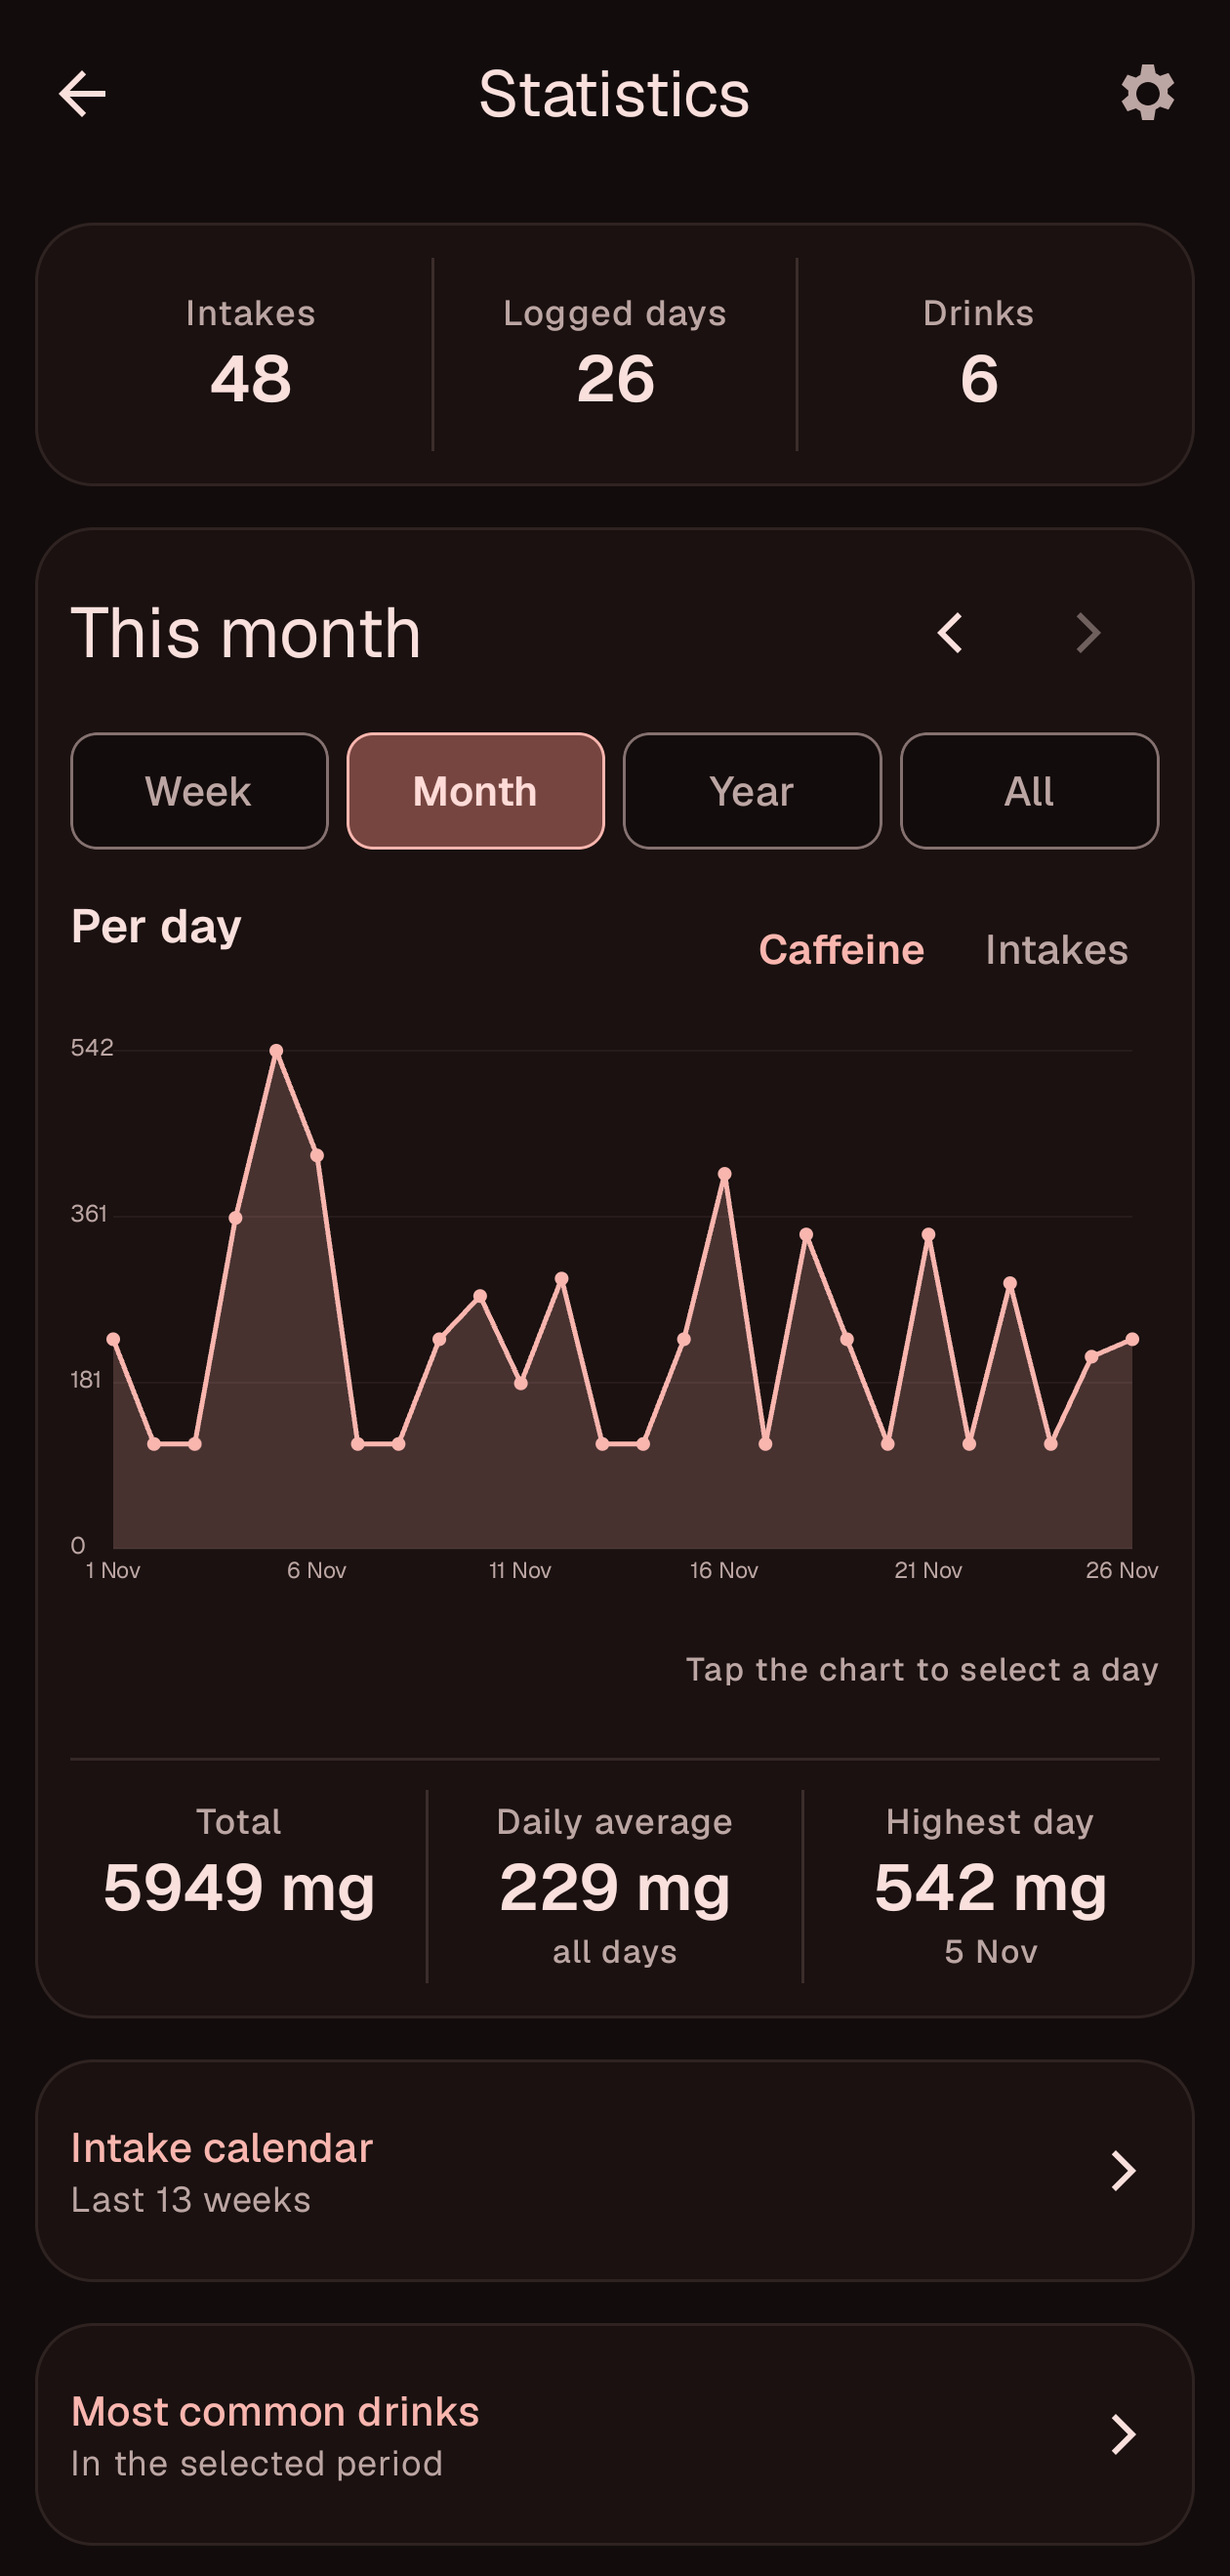
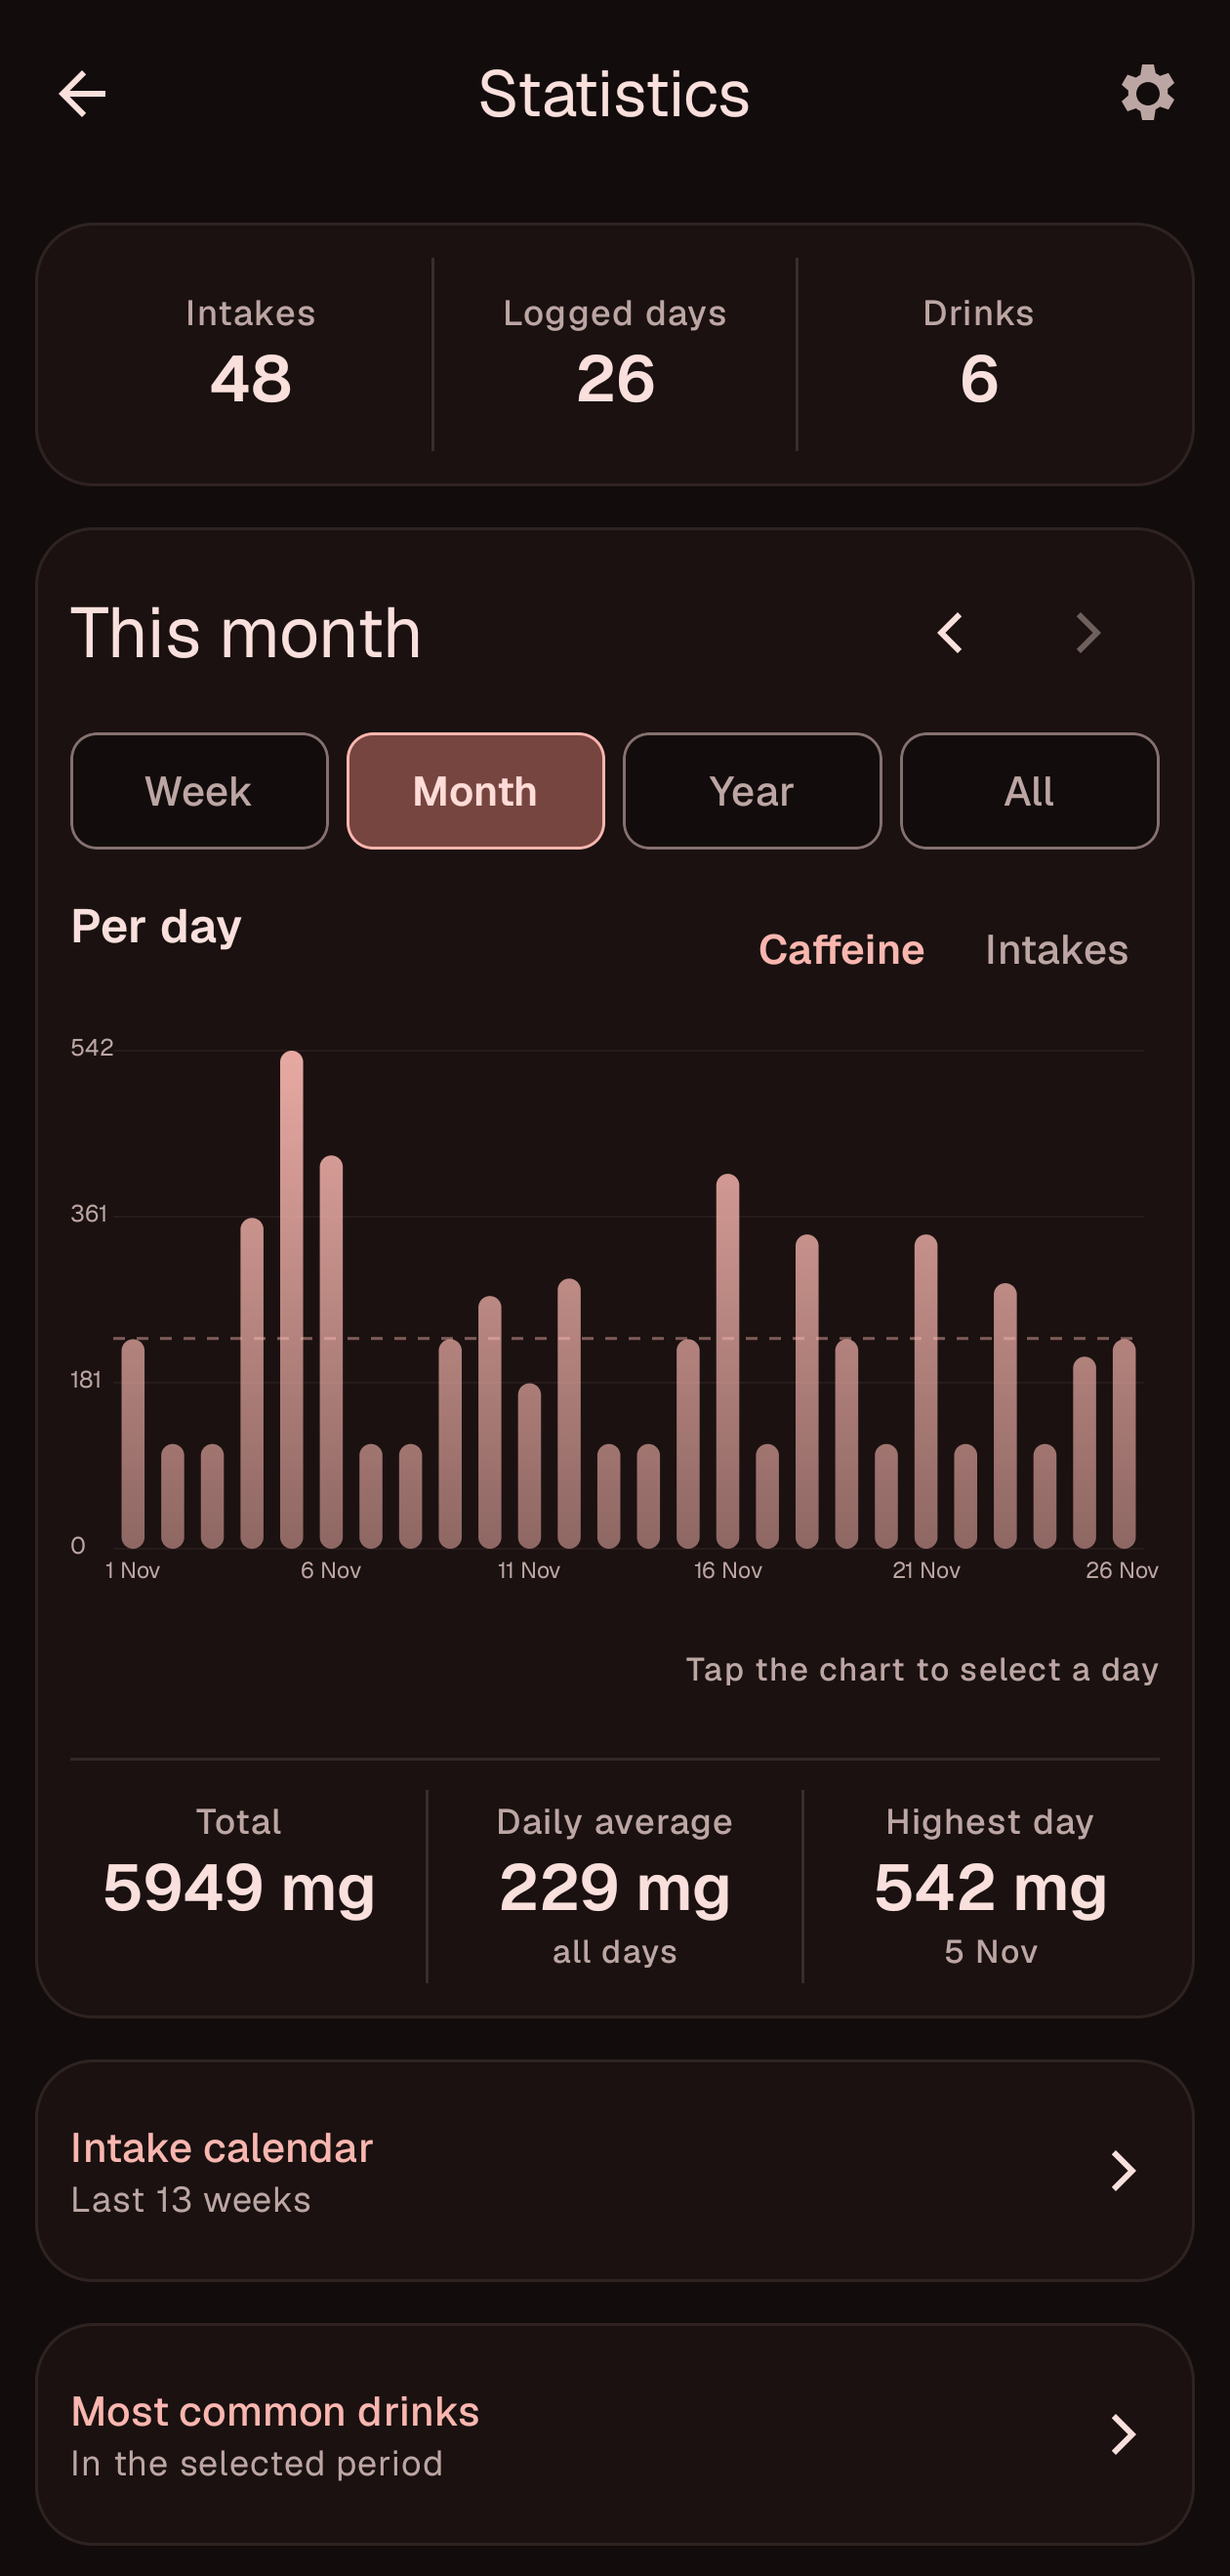
Switch Statistics chart to rounded pill bars with average line (build 48)

Changed region(s): [[0.0929, 0.4041, 0.9286, 0.6217]]

diff --git a/app/src/main/java/com/roinur/caffeinetracker/feature/statistics/StatisticsComponents.kt b/app/src/main/java/com/roinur/caffeinetracker/feature/statistics/StatisticsComponents.kt
@@ -26,15 +26,18 @@ import androidx.compose.runtime.remember
 import androidx.compose.runtime.setValue
 import androidx.compose.ui.Alignment
 import androidx.compose.ui.Modifier
-import androidx.compose.ui.graphics.Path
-import androidx.compose.ui.graphics.StrokeCap
+import androidx.compose.ui.geometry.CornerRadius
+import androidx.compose.ui.geometry.Offset
+import androidx.compose.ui.geometry.Size
+import androidx.compose.ui.graphics.Brush
+import androidx.compose.ui.graphics.PathEffect
 import androidx.compose.ui.graphics.nativeCanvas
 import androidx.compose.ui.graphics.toArgb
-import androidx.compose.ui.geometry.Offset
 import androidx.compose.ui.input.pointer.pointerInput
 import androidx.compose.ui.text.font.FontWeight
 import androidx.compose.ui.text.style.TextOverflow
 import androidx.compose.ui.unit.dp
+import androidx.compose.ui.unit.sp
 import com.roinur.caffeinetracker.core.ui.i18n.LocalAppLanguage
 import com.roinur.caffeinetracker.core.ui.i18n.LocalStrings
 import java.time.LocalDate
@@ -119,11 +122,16 @@ internal fun CaffeineLineChart(
     }
 
     fun selectPoint(x: Float, sizeWidth: Float) {
-        if(visiblePoints.isEmpty()) return
-        val width = (sizeWidth - 44f - 28f).coerceAtLeast(1f)
-        val step = if(visiblePoints.size <= 1) width else width / (visiblePoints.size - 1)
-        val index = ((x - 44f) / step).roundToInt().coerceIn(0,visiblePoints.lastIndex)
+        if (visiblePoints.isEmpty()) return
+        val left = 44f
+        val right = sizeWidth - 16f
+        val width = (right - left).coerceAtLeast(1f)
+        val slotWidth = width / visiblePoints.size.toFloat()
+        val index = ((x - left) / slotWidth).toInt().coerceIn(0, visiblePoints.lastIndex)
         onPointSelected(visiblePoints[index])
+    }
+    val avgValue = remember(visiblePoints) {
+        if (visiblePoints.size > 1) visiblePoints.sumOf { it.value } / visiblePoints.size else 0.0
     }
     Column(modifier = modifier, verticalArrangement = Arrangement.spacedBy(8.dp)) {
         Row(
@@ -155,13 +163,14 @@ internal fun CaffeineLineChart(
                     detectTapGestures { selectPoint(it.x, size.width.toFloat()) }
                 }
                 .pointerInput(visiblePoints, range, metric) {
-                    detectHorizontalDragGestures(onDragStart = { selectPoint(it.x,size.width.toFloat()) }) { change, _ ->
+                    detectHorizontalDragGestures(onDragStart = { selectPoint(it.x, size.width.toFloat()) }) { change, _ ->
+                        change.consume()
                         selectPoint(change.position.x, size.width.toFloat())
                     }
                 }
         ) {
             val left = 44f
-            val right = size.width - 28f
+            val right = size.width - 16f
             val top = 8f
             val bottom = size.height - 34f
             val width = (right - left).coerceAtLeast(1f)
@@ -172,46 +181,85 @@ internal fun CaffeineLineChart(
                 val label = ((maxValue * (3 - index)) / 3.0).roundToInt().toString()
                 drawContext.canvas.nativeCanvas.drawText(label, 0f, y + 5f, yLabelPaint)
             }
-            val step = if (visiblePoints.size <= 1) width else width / (visiblePoints.size - 1).toFloat()
-            val offsets = visiblePoints.mapIndexed { index, point ->
-                val x = left + step * index
-                val y = bottom - (point.value.toFloat() / maxValue.toFloat()) * height
-                Offset(x, y)
-            }
-            val fillPath = Path().apply {
-                offsets.firstOrNull()?.let { first ->
-                    moveTo(first.x, bottom)
-                    offsets.forEach { lineTo(it.x, it.y) }
-                    lineTo(offsets.last().x, bottom)
-                    close()
+
+            if (visiblePoints.isNotEmpty()) {
+                val slotWidth = width / visiblePoints.size.toFloat()
+                val maxBarW = 24.dp.toPx()
+                val minBarW = 3.dp.toPx()
+                val barWidth = (slotWidth * 0.58f).coerceIn(minBarW, maxBarW)
+                val minNonZeroH = 4.dp.toPx()
+                val zeroDotH = 3.dp.toPx()
+                val hasSelection = selectedPoint != null
+                val defaultBrush = Brush.verticalGradient(
+                    colors = listOf(primary.copy(alpha = 0.92f), primary.copy(alpha = 0.52f)),
+                    startY = top,
+                    endY = bottom
+                )
+                val dimmedColor = primary.copy(alpha = 0.28f)
+
+                visiblePoints.forEachIndexed { index, point ->
+                    val centerX = left + slotWidth * index + slotWidth / 2f
+                    val isSelected = selectedPoint?.date == point.date
+                    val barLeft = centerX - barWidth / 2f
+
+                    if (isSelected) {
+                        val haloW = (barWidth + 6.dp.toPx()).coerceAtMost(slotWidth)
+                        drawRoundRect(
+                            color = primary.copy(alpha = 0.10f),
+                            topLeft = Offset(centerX - haloW / 2f, top),
+                            size = Size(haloW, height),
+                            cornerRadius = CornerRadius(haloW / 2f, haloW / 2f)
+                        )
+                    }
+
+                    if (point.value <= 0.0) {
+                        val dotR = zeroDotH / 2f
+                        drawRoundRect(
+                            color = if (isSelected) primary.copy(alpha = 0.65f) else primary.copy(alpha = 0.16f),
+                            topLeft = Offset(barLeft, bottom - zeroDotH),
+                            size = Size(barWidth, zeroDotH),
+                            cornerRadius = CornerRadius(dotR, dotR)
+                        )
+                    } else {
+                        val rawH = (point.value.toFloat() / maxValue.toFloat()) * height
+                        val barH = rawH.coerceIn(minNonZeroH, height)
+                        val radius = minOf(barWidth, barH) / 2f
+                        val topLeft = Offset(barLeft, bottom - barH)
+                        val barSize = Size(barWidth, barH)
+                        val corner = CornerRadius(radius, radius)
+                        when {
+                            isSelected -> drawRoundRect(color = primary, topLeft = topLeft, size = barSize, cornerRadius = corner)
+                            hasSelection -> drawRoundRect(color = dimmedColor, topLeft = topLeft, size = barSize, cornerRadius = corner)
+                            else -> drawRoundRect(brush = defaultBrush, topLeft = topLeft, size = barSize, cornerRadius = corner)
+                        }
+                    }
                 }
-            }
-            drawPath(fillPath, primary.copy(alpha = 0.20f))
-            offsets.zipWithNext().forEach { (a, b) ->
-                drawLine(primary, a, b, strokeWidth = 5f, cap = StrokeCap.Round)
-            }
-            offsets.forEachIndexed { index, offset ->
-                if (selectedPoint?.date == visiblePoints[index].date) {
-                    drawLine(primary.copy(alpha = 0.55f), Offset(offset.x, top), Offset(offset.x, bottom), strokeWidth = 2f)
-                    drawCircle(primary.copy(alpha = 0.24f), radius = 16f, center = offset)
-                    drawCircle(primary, radius = 9f, center = offset)
-                } else {
-                    drawCircle(primary, radius = 7f, center = offset)
+
+                if (avgValue > 0.0) {
+                    val avgY = (bottom - (avgValue.toFloat() / maxValue.toFloat()) * height).coerceIn(top, bottom)
+                    drawLine(
+                        color = primary.copy(alpha = 0.45f),
+                        start = Offset(left, avgY),
+                        end = Offset(right, avgY),
+                        strokeWidth = 1.dp.toPx(),
+                        pathEffect = PathEffect.dashPathEffect(floatArrayOf(4.dp.toPx(), 4.dp.toPx()))
+                    )
                 }
-            }
-            val labelStride = when (range) {
-                CaffeineStatsRange.WEEK -> 1
-                CaffeineStatsRange.MONTH -> 5
-                CaffeineStatsRange.YEAR -> 2
-                CaffeineStatsRange.ALL_TIME -> (visiblePoints.size / 5).coerceAtLeast(1)
-            }
-            visiblePoints.forEachIndexed { index, point ->
-                if (index % labelStride != 0 && index != visiblePoints.lastIndex) return@forEachIndexed
-                val x = left + step * index
-                val label = point.date.format(xFormatter)
-                val labelWidth = xLabelPaint.measureText(label)
-                val labelX = (x - labelWidth / 2f).coerceIn(0f, size.width - labelWidth)
-                drawContext.canvas.nativeCanvas.drawText(label, labelX, size.height - 4f, xLabelPaint)
+
+                val labelStride = when (range) {
+                    CaffeineStatsRange.WEEK -> 1
+                    CaffeineStatsRange.MONTH -> 5
+                    CaffeineStatsRange.YEAR -> 2
+                    CaffeineStatsRange.ALL_TIME -> (visiblePoints.size / 5).coerceAtLeast(1)
+                }
+                visiblePoints.forEachIndexed { index, point ->
+                    if (index % labelStride != 0 && index != visiblePoints.lastIndex) return@forEachIndexed
+                    val centerX = left + slotWidth * index + slotWidth / 2f
+                    val label = point.date.format(xFormatter)
+                    val labelWidth = xLabelPaint.measureText(label)
+                    val labelX = (centerX - labelWidth / 2f).coerceIn(0f, size.width - labelWidth)
+                    drawContext.canvas.nativeCanvas.drawText(label, labelX, size.height - 4f, xLabelPaint)
+                }
             }
         }
     }
